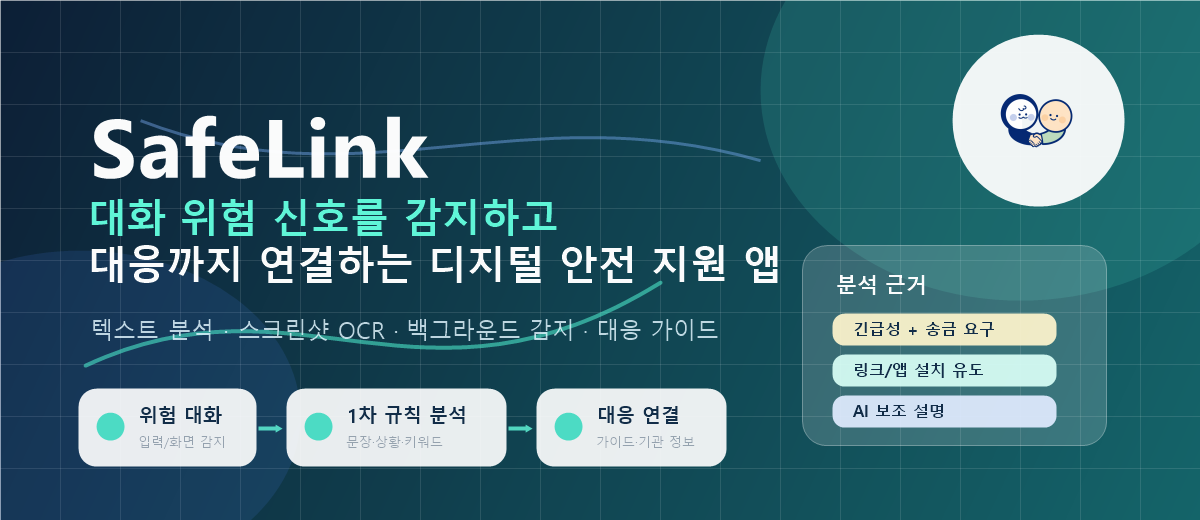
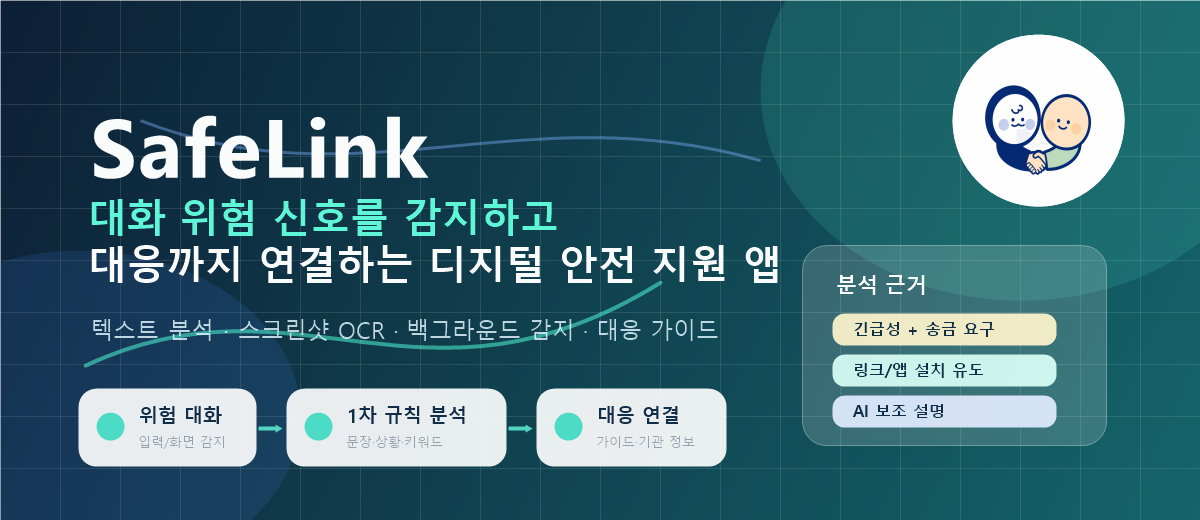
docs: emphasize SafeLink mascot branding

Changed region(s): [[0.8017, 0.1538, 0.925, 0.3385]]

diff --git a/GitHub_레포_정리_기준.md b/GitHub_레포_정리_기준.md
@@ -81,6 +81,14 @@ Website:
 비워두거나 발표/배포 링크가 생긴 뒤 추가
 ```
 
+Profile image:
+
+```text
+docs/assets/safelink_profile_avatar.png
+```
+
+SafeLink 레포 또는 GitHub 조직/계정 프로필 이미지를 설정할 때는 위 이미지를 사용한다. 두 아이가 손을 잡고 있는 SafeLink 마스코트를 강조한 정사각형 프로필용 파일이다.
+
 ### 추천 pinned repository
 
 - `safelink`
